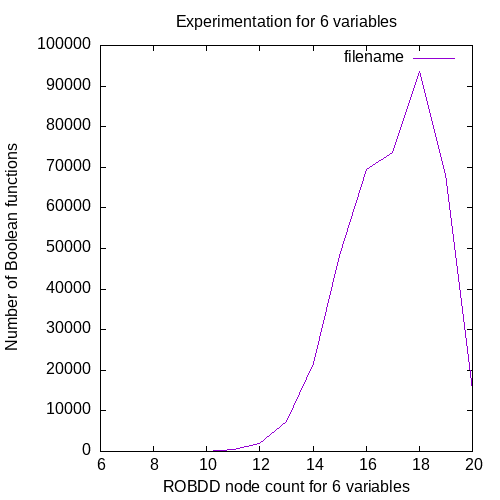
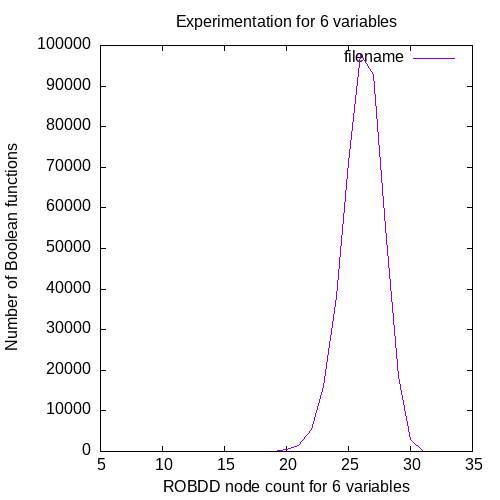
expr en utilisant un pas (step)

diff --git a/python/Experimentations.py b/python/Experimentations.py
@@ -9,7 +9,7 @@ import sys
 
 if len(sys.argv) != 3 : 
     nombre_var = int(input("Tapez le nombre de variables des fonctions a experimente : "))
-    nombre_max_fun = int(input("Tapez le nombre de fonctions bool : "))
+    nombre_max_fun = int(input("Tapez le nombre de fonctions bool (-1 si toutes): "))
     tab = False
 else :
     nombre_var = int(sys.argv[1])
@@ -17,42 +17,48 @@ else :
     tab = True
 
 
-if nombre_max_fun == -1 :
-    nombre_max_fun = sys.maxsize
+if nombre_max_fun < 0 :
+    nombre_max_fun = 0
 if nombre_var <= 1:
      borne_inf = 0
 else:
     borne_inf = int(2**(2**(nombre_var - 1)))
 
 borne_sup = int(2**(2**nombre_var))
-if nombre_max_fun + borne_inf < borne_sup :
-    borne_sup = nombre_max_fun + borne_inf
-dict = {}
-nbr_taille_differentes = 0
 
-print("Patientez SVP ...{borne_sup}")
-
-temps_debut = time.time()
-for i in range(borne_inf,borne_sup):
-    print(f"fonction : {i} nombre_var : {nombre_var} borne inf : {borne_inf} borne inf : {borne_sup}")
-    tree = compression_bdd(cons_arbre(i))
+dict_taille = {}
+if nombre_max_fun == 0 :
+    step = 1
+else :
+    step = (borne_sup -borne_inf)//nombre_max_fun 
+nbr_func = 0
+temps = 0
+for i in range(borne_inf,borne_sup,step):
+    nbr_func += 1
+    if nbr_func > nombre_max_fun:
+        nbr_func -=1
+        break
+    print(f"fonction : {i} nombre_var : {nombre_var} borne inf : {borne_inf} borne sup : {borne_sup} temps : {temps}")
+    arbre = cons_arbre(i)
+    temps_debut = time.time()
+    tree = compression_bdd(arbre)
+    temps_fin = time.time()
+    temps += temps_fin - temps_debut
     taille = taille_arbre_compresse_robdd(tree)    
     try:
-        dict[taille] = dict[taille] + 1
+        dict_taille[taille] = dict_taille[taille] + 1
     except KeyError :
-        dict[taille] = 1
-        nbr_taille_differentes += 1
+        dict_taille[taille] = 1
+    
 
 
-temps_fin = time.time()
-temps = temps_fin - temps_debut
 nbr_taille_differentes = 0
 with open(f"./experimentations/gnuplot_data/nombre_var{nombre_var}.dat","w") as f:
-    for k in {k: v for k, v in sorted(dict.items(), key=lambda item: item[0])}:
-        f.write(f"{k} {dict[k]}\n")
+    for k in {k: v for k, v in sorted(dict_taille.items(), key=lambda item: item[0])}:
+        f.write(f"{k} {dict_taille[k]}\n")
         nbr_taille_differentes += 1
 plot(nombre_var)
-nbr_func = borne_sup - borne_inf
+
 temps_par_robdd = temps/ nbr_func
 
 if tab :

diff --git a/python/code/Dot.py b/python/code/Dot.py
@@ -1,14 +1,10 @@
 from code.Tree import Tree
+from code.Tools import init_visited
 
-def init_writer(tree:Tree):
-    tree.write = False
-    if tree.false == None:
-        return tree
-    init_writer(tree.false)
-    init_writer(tree.true)
+
 
 def dot(tree : Tree,name : str):
-    init_writer(tree)
+    init_visited(tree)
     with open(f"./dot/{name}.dot","w") as f:
         f.write("graph\n")
         f.write("{\n")
@@ -18,10 +14,10 @@ def dot(tree : Tree,name : str):
 def __dot(tree:Tree,number,f):
     if tree.false == None:
         return
-    if  tree.write:
+    if  tree.visited:
         return
     f.write(f"\"{tree.label}_{tree.id}\"[label=\"{tree.label}\"];\n\"{tree.false.label}_{tree.false.id}\"[label=\"{tree.false.label}\"];\n\"{tree.label}_{tree.id}\" -- \"{tree.false.label}_{tree.false.id}\" [color=green,penwidth=1.0]\n")
     f.write(f"\"{tree.true.label}_{tree.true.id}\"[label=\"{tree.true.label}\"];\n\"{tree.label}_{tree.id}\" -- \"{tree.true.label}_{tree.true.id}\" [color=red,penwidth=1.0]\n")
-    tree.write = True
+    tree.visited = True
     __dot(tree.false,number,f)
     __dot(tree.true,number,f)

diff --git a/python/code/Tools.py b/python/code/Tools.py
@@ -7,14 +7,25 @@ def decomposition(number):
     return l
 
 
+def init_visited(tree):
+    tree.visited = False
+    if tree.false == None:
+        return tree
+    init_visited(tree.false)
+    init_visited(tree.true)
 
 def taille_arbre_compresse_robdd(tree) :
-    if (tree.taille_visited):
+    init_visited(tree)
+    return _taille_arbre_compresse_robdd(tree)
+
+
+def _taille_arbre_compresse_robdd(tree) :
+    if (tree.visited):
         return 0
-    tree.taille_visited = True
+    tree.visited = True
     if(tree.false == None):
         return 1
-    return 1 + taille_arbre_compresse_robdd(tree.false) + taille_arbre_compresse_robdd(tree.true)
+    return 1 + _taille_arbre_compresse_robdd(tree.false) + _taille_arbre_compresse_robdd(tree.true)
 
 def completion(l,length):
     if len(l) >= length:

diff --git a/python/Main.py b/python/Main.py
@@ -3,6 +3,7 @@
 from code.Dot import dot
 from code.Tree import cons_arbre
 from code.Compression import compression, compression_bdd, luka
+from code.Tools import taille_arbre_compresse_robdd
 
 
 
@@ -16,6 +17,7 @@ def main ():
     
     dot(compression(tree),"compression_arbre")
     dot(compression_bdd(tree),"compression_bdd")
+    print(taille_arbre_compresse_robdd(compression_bdd(tree)))
     print("La representation des arbres est dans le repertiore dot, mettez ces fichiers sur le site https://graphs.grevian.org/graph pour voir la representation graphique de ces arbres\n")
 
 

diff --git a/python/code/Tree.py b/python/code/Tree.py
@@ -11,10 +11,9 @@ class Tree:
         self.label = label
         self.false = None
         self.true = None
-        self.write = False
         self.taille = 0
         self.hauteur = 0
-        self.taille_visited = False
+        self.visited = False
         self.id = ident
         ident+=1
     def __repr__(self) -> str:

diff --git a/python/experimentations/tab.md b/python/experimentations/tab.md
@@ -2,9 +2,9 @@
 
 |No. variables |No. Samples |No. Unique Sizes  |Compute Time hh:mm:ss.ms |Seconds per ROBDD |
 |:------------:|:----------:|:----------------:|:--------------------:|:----------------:|
-|5  |500003  |11 |00:05:42 |0.0006847849971821983|
-|6  |400003  |14 |00:07:24 |0.001111476591460621|
-|7  |486892  |15 |00:10:34 |0.0013025422404081396|
-|8  |56343  |11 |00:02:03 |0.0021899709804280272|
-|9  |94999  |12 |00:06:09 |0.0038923312754898026|
-|10  |17975  |11 |00:02:10 |0.007236120173596208|
+|5  |500003  |13 |00:03:44 |0.00044803638715628036|
+|6  |400003  |16 |00:06:29 |0.0009731611518853092|
+|7  |486892  |25 |00:16:22 |0.00201720746066912|
+|8  |56343  |25 |00:03:29 |0.0037166050798441088|
+|9  |94999  |26 |00:13:15 |0.008375916323258596|
+|10  |17975  |44 |00:03:59 |0.013351336745791375|
